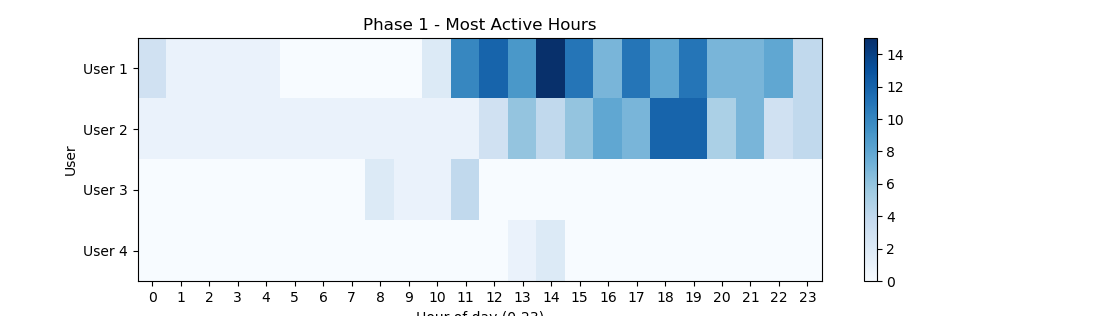
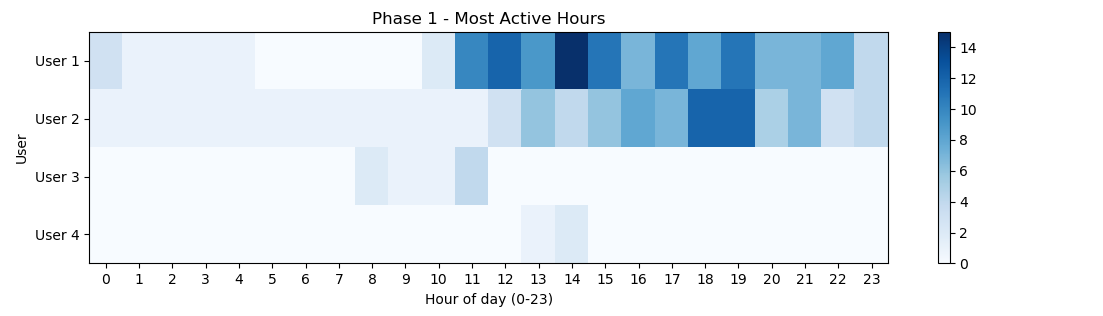
- tighten the layout for heatmaps

diff --git a/data/plots/script.py b/data/plots/script.py
@@ -178,13 +178,15 @@ def plot_heatmap(df):
     axis.set_yticklabels(row_labels, minor=False)
     axis.set_xticklabels(column_labels, minor=False)
 
-    axis.set_title("Phase 1 - Most Active Hours")
+    axis.set_title("Phase 2 - Most Active Hours")
     axis.set_xlabel("Hour of day (0-23)")
     axis.set_ylabel("User")
 
     plt.colorbar(heatmap)
 
     fig.set_size_inches(11.03, 3.5)
+
+    plt.tight_layout()
 
     plt.show()
 
